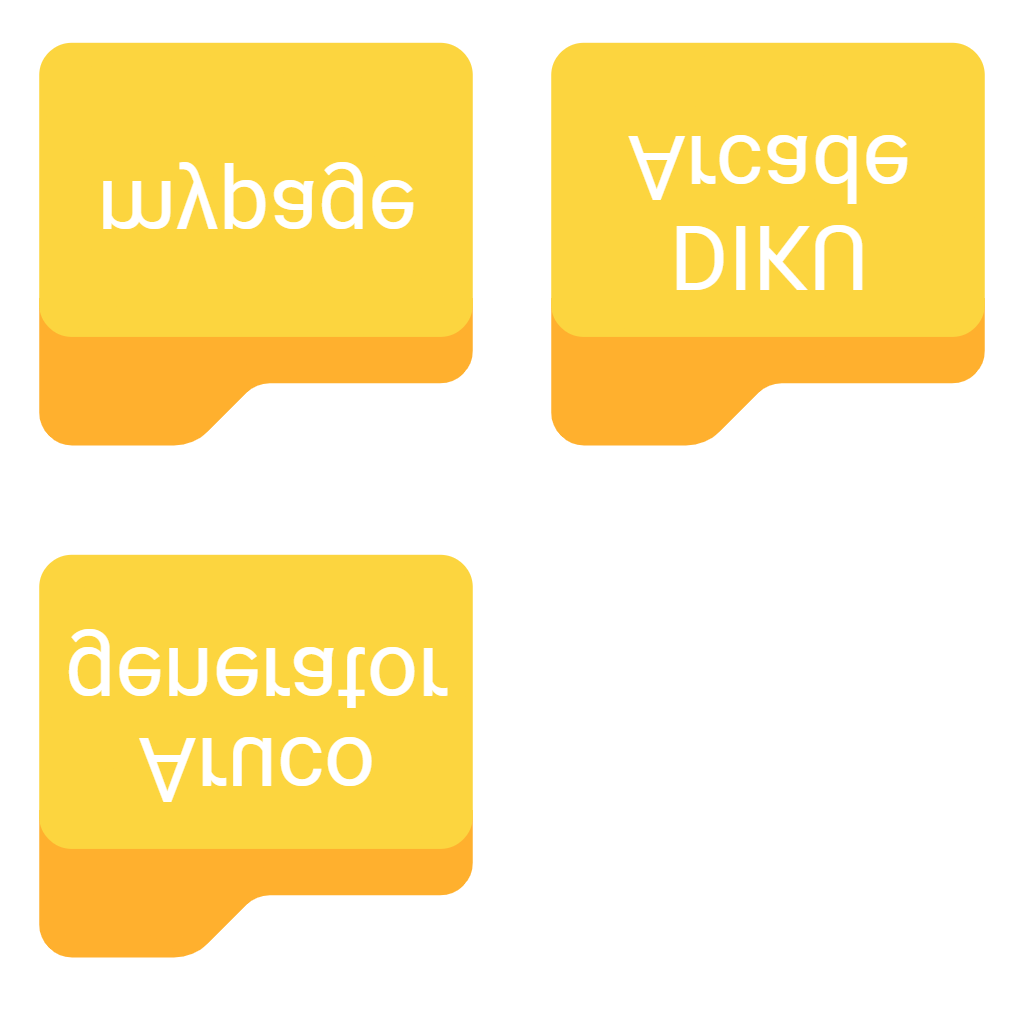
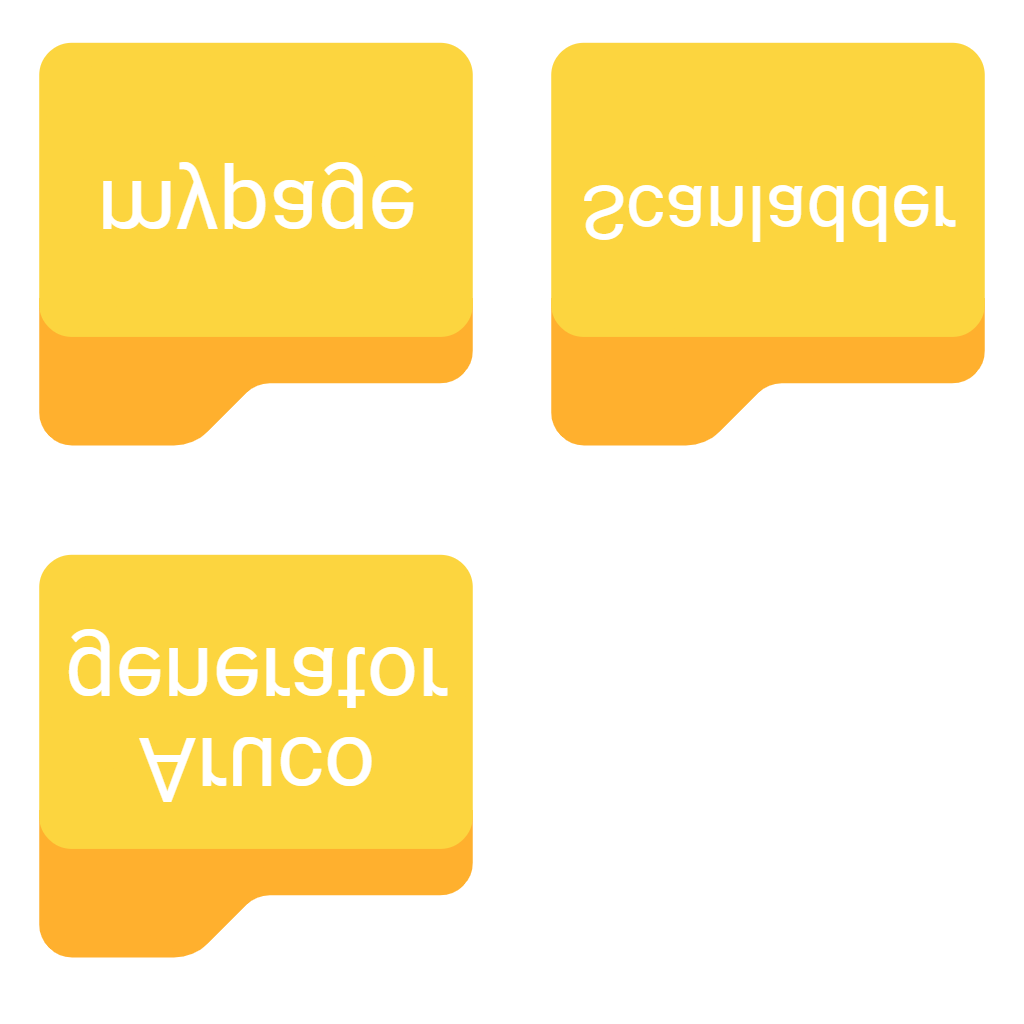
FEAT: Added ScanLadder project & fixed the buttons

Changed region(s): [[0.5625, 0.125, 0.9375, 0.2812]]

diff --git a/app/src/hints.ts b/app/src/hints.ts
@@ -6,7 +6,7 @@ export default {
     // Technical skills
     0x200: {
         txt: "<b>Vue.js</b><br/><br/>I like the simplicity of Vue and that it doesn't include all the frustration found in other directive driven frameworks. However, I've only made very simple projects with it.",
-        rating: 3,
+        rating: 5,
     },
     0x201: {
         txt: "<b>React</b><br/><br/>I've been using react extensively and I really like it for its unopinionated minimal API and emphasis on composition.",
@@ -34,15 +34,15 @@ export default {
     },
     0x210: {
         txt: '<b>Git</b><br/><br/>I know about 12 Git commands, where the first 4 are stage, commit, pull and push. The last eight are for when I messed up.',
-        rating: 4,
+        rating: 3,
     },
     0x211: {
         txt: '<b>Docker</b><br/><br/>I love docker. It makes it so easy to spin up a new environment and share it with others. Most of the projects I work on are containerized.',
-        rating: 5,
+        rating: 4,
     },
     0x212: {
         txt: "<b>PostgreSQL</b><br/><br/>The databases I've worked with are mostly ones I created, so I'm quite familiar with schemas, views and how to query data.",
-        rating: 5,
+        rating: 4,
     },
     0x213: {
         txt: "<b>Next.js</b><br/><br/>I've used Next.js a couple of times and it's certainly a good framework. I however find it a bit opinionated and prefer to use a custom setup.",
@@ -82,11 +82,11 @@ export default {
         rating: -1,
     },
     0x301: {
-        txt: "<b>Aruco generator</b><br/><br/>A very simple app, that can generate aruco codes. The codes are mainly used in robotics.<br/><br/><a href='https://aruco-generator.sliplane.app/' target='_blank'>page</a><a href='https://github.com/TimRJensen/aruco-generator' target='_blank'>source</a>",
+        txt: "<b>ScanLadder</b><br/><br/>A small dashboard service, that let users create QR codes and associate them with documents. It also contains a mobile PWA.<br/><br/><a href='https://scanladder.sliplane.app' target='_blank'>page</a>",
         rating: -1,
     },
     0x302: {
-        txt: "<b>Breakout & Galage</b><br/><br/>A cool little project we did at the institute, where we recreated old arcade games.<br/><br/><a href='https://github.com/TimRJensen/DIKUGames' target='_blank'>source</a>",
+        txt: "<b>Aruco generator</b><br/><br/>A very simple app, that can generate aruco codes. The codes are mainly used in robotics.<br/><br/><a href='https://aruco-generator.sliplane.app/' target='_blank'>page</a><a href='https://github.com/TimRJensen/aruco-generator' target='_blank'>source</a>",
         rating: -1,
     },
     // Personal skills

diff --git a/app/src/main.ts b/app/src/main.ts
@@ -122,8 +122,9 @@ import hints from "./hints.ts";
         new Node({id: 0x3, pos: [0.4952, 0.0, -0.4583], shapes: [
             new Text(1, 13, {pos: [-0.05, 0.0025, -0.05], rotation: [Math.PI, Math.PI/4, 0.0]}),
             new Edge([0.4952, 0.07, -0.4583], [0.024, 0.06, -0.7092], 0x3),
-            new Texture(2, 2, {id: 0x301, pos: [0.2747, 0.0, 0.1500], rotation: [-Math.PI/2, 0.0, 0.5]}),
-            new Texture(2, 0, {id: 0x300, pos: [0.3885, 0.0, 0.0], rotation: [-Math.PI/2, 0.0, 0.5]}),
+            new Texture(2, 2, {id: 0x302, pos: [0.2747, 0.0, 0.1500], rotation: [-Math.PI/2, 0.0, 0.5]}),
+            new Texture(2, 1, {id: 0x301, pos: [0.3885, 0.0, 0.0], rotation: [-Math.PI/2, 0.0, 0.5]}),
+            new Texture(2, 0, {id: 0x300, pos: [0.2747, 0.0, 0.0], rotation: [-Math.PI/2, 0.0, 0.5]}),
         ]}),
         // About me
         new Node({id: 0x41, pos: [-1.1142, 0.0, 0.0369], shapes: [

diff --git a/app/css/index.css b/app/css/index.css
@@ -49,8 +49,8 @@ body {
 
 /* Custom styles */
 .button {
-  width: clamp(2rem, 100%, 3rem);
-  height: clamp(2rem, 100%, 3rem);
+  width: 2rem;
+  height: 2rem;
   border-radius: 50%;
   background-color: rgb(102, 51, 153);
 }
@@ -462,6 +462,7 @@ body {
     clip-rule: evenodd;
   }
   #footer #contact-box > *:nth-child(3) svg {width: 36px; height: 36px;}
+  .button {width: 3rem; height: 3rem;}
 }
 @media only screen and (orientation: landscape) {
   #canvas-box::after {
